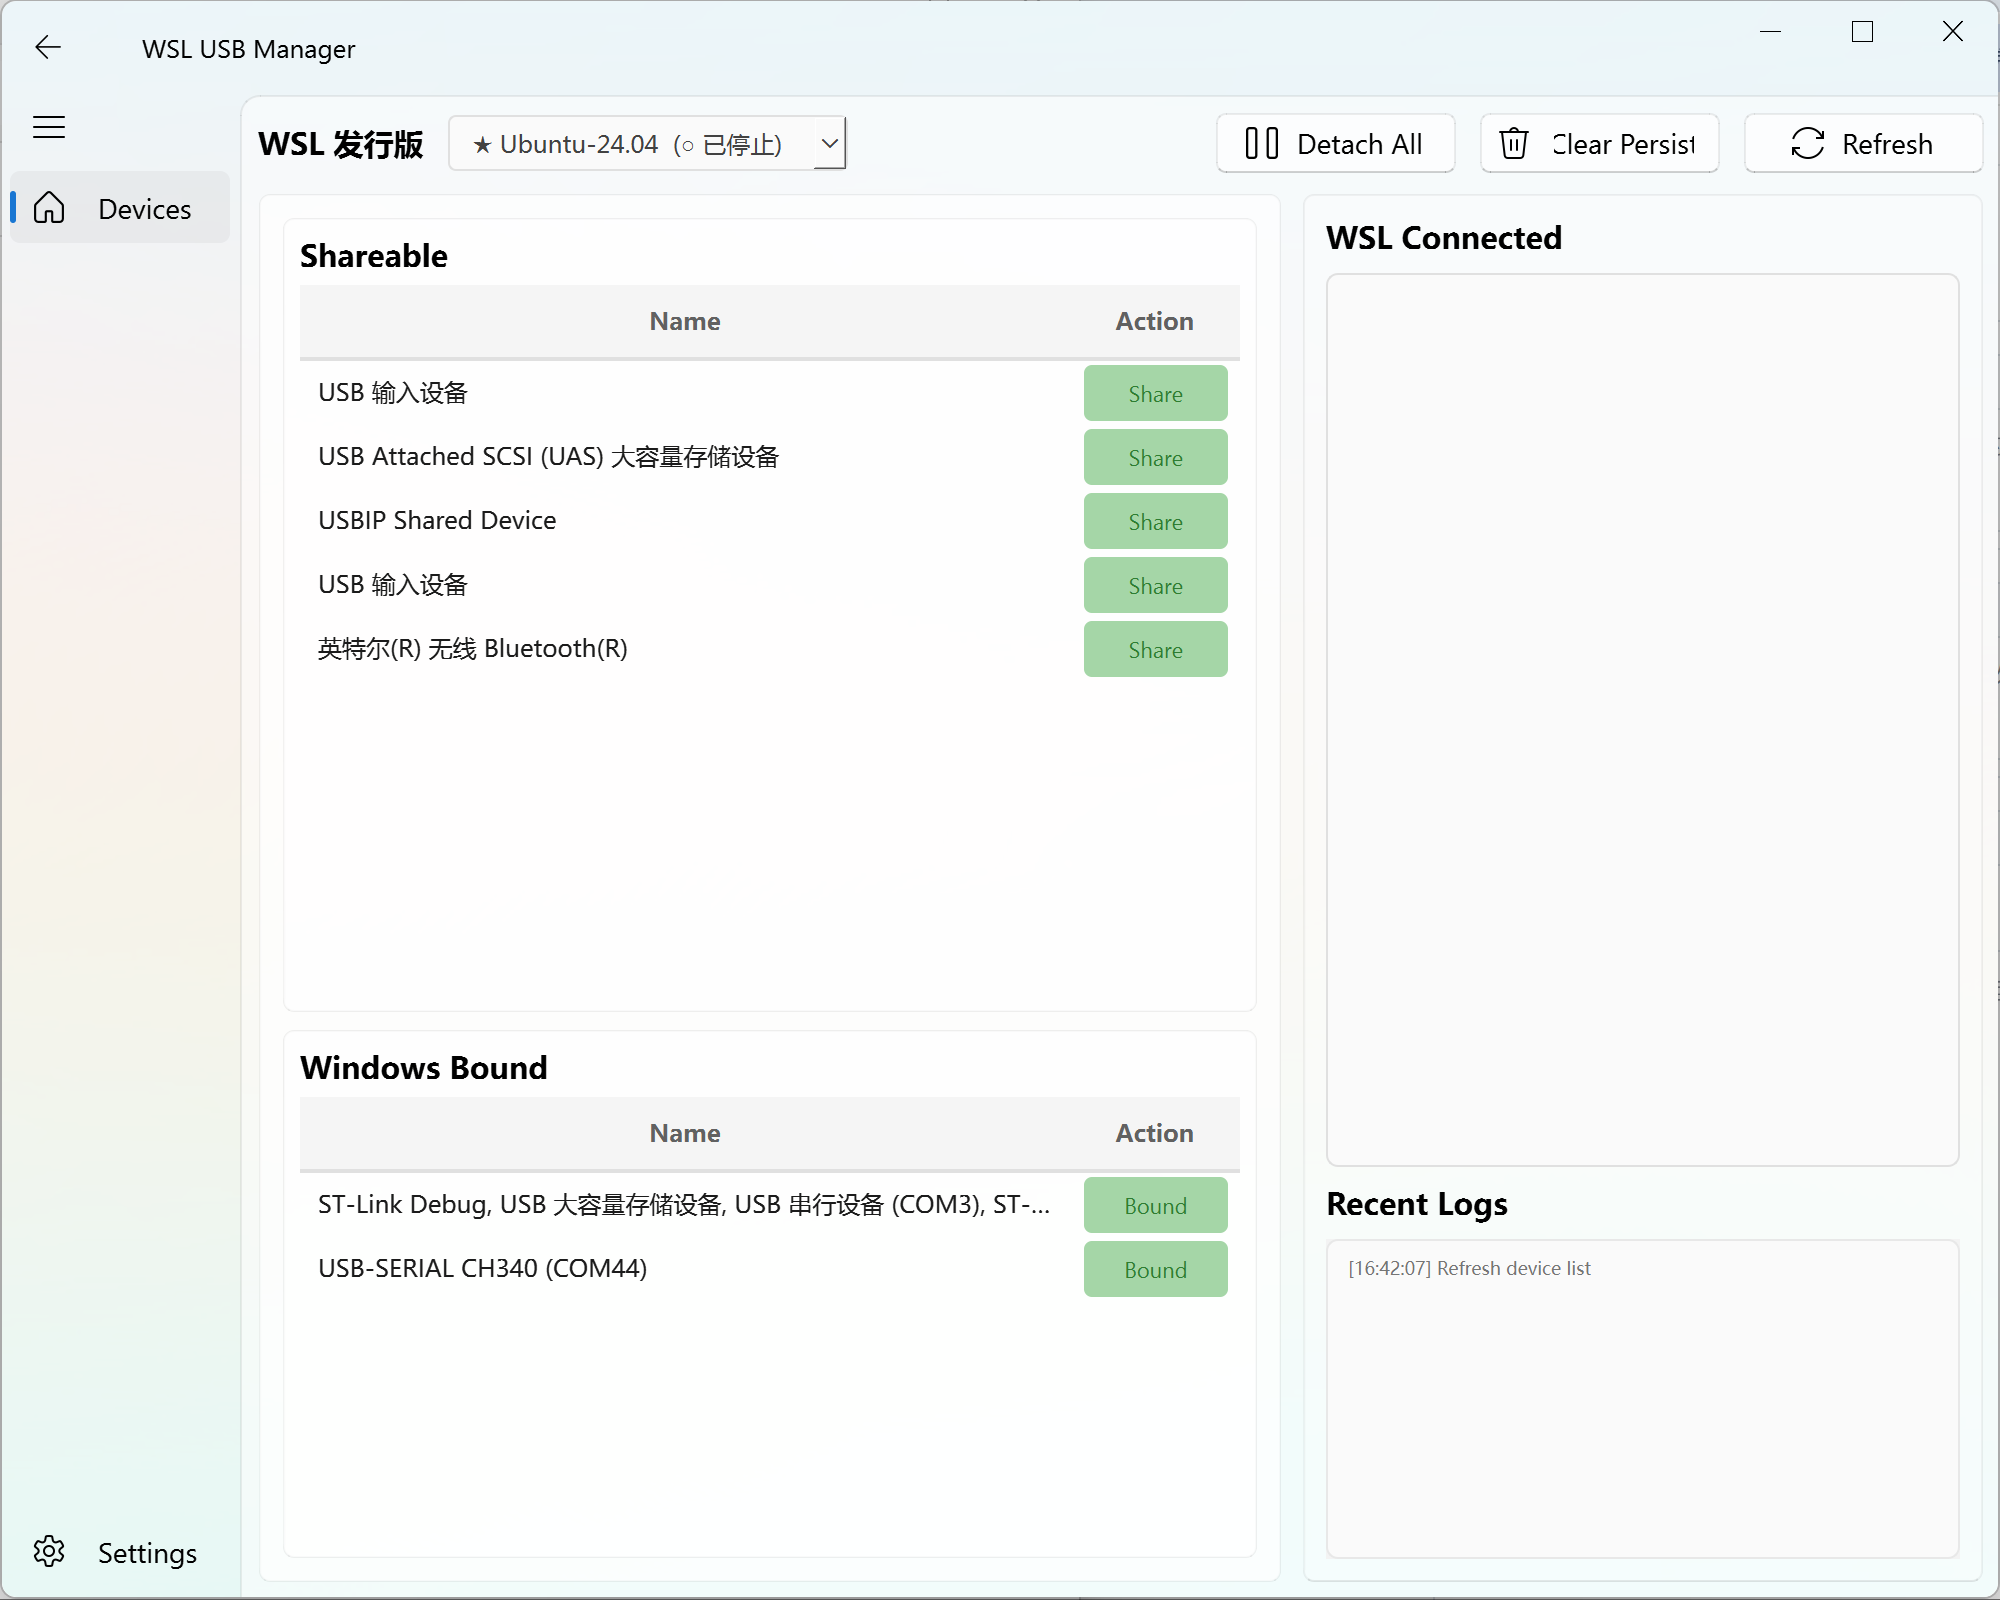
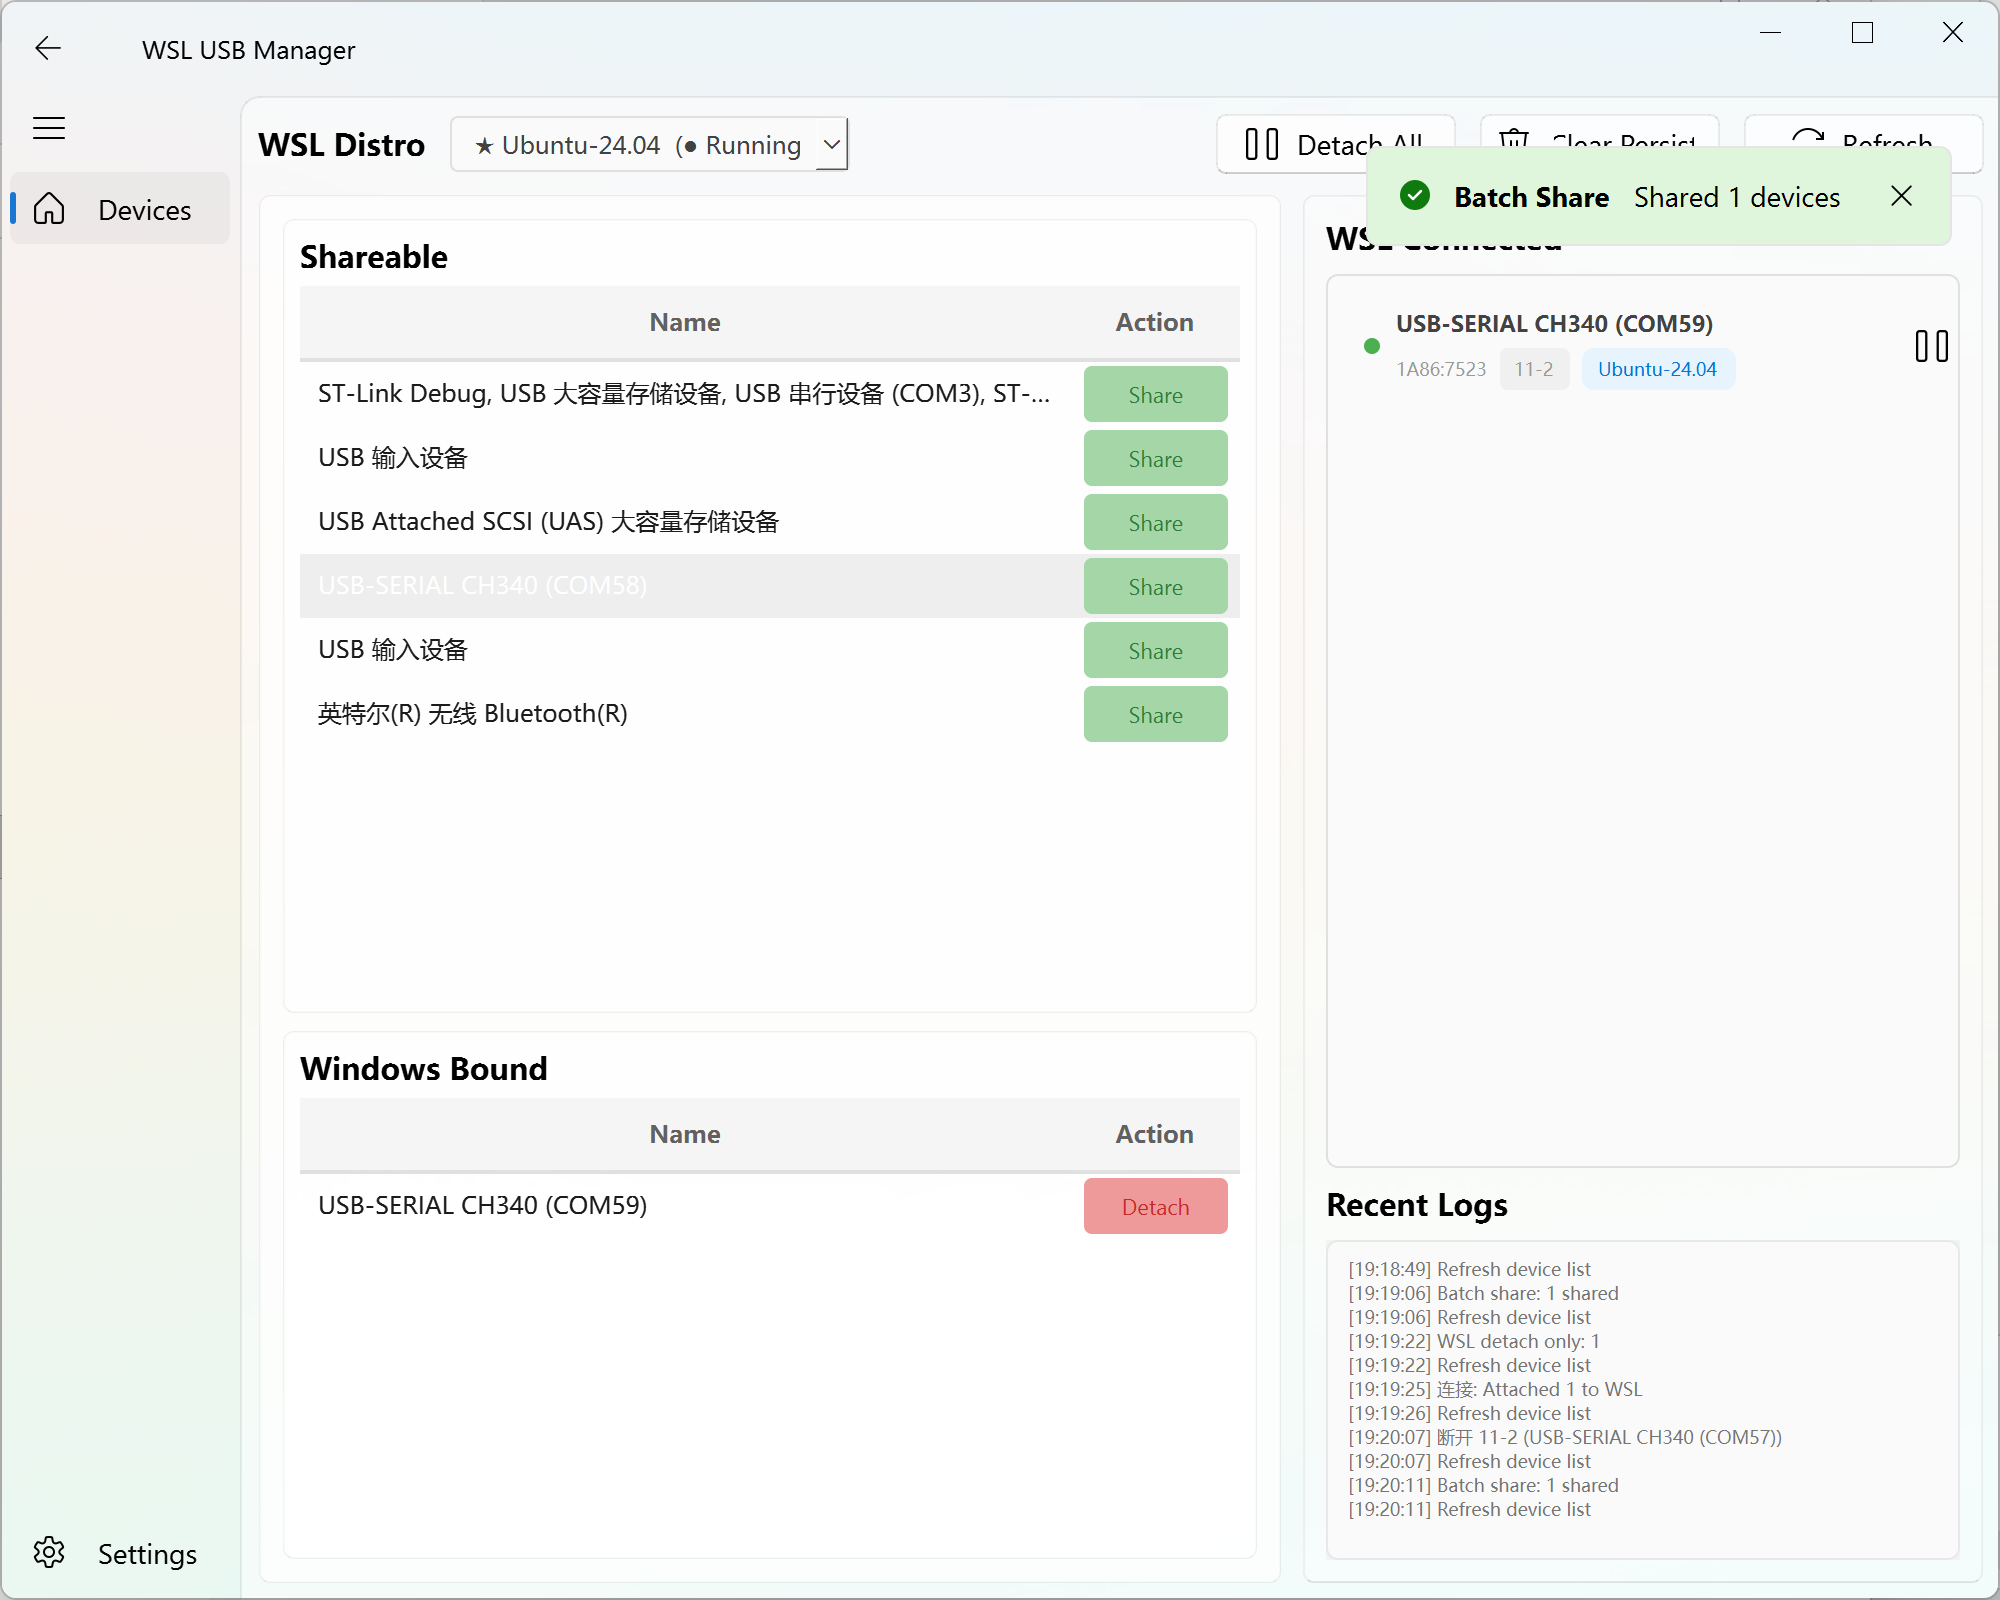
v1.0.2: fix distro display, auto-refresh timer, i18n fixes

diff --git a/windows/pages/home_page.py b/windows/pages/home_page.py
@@ -263,7 +263,10 @@ class HomePage(QWidget):
         ]
         if not shareable:
             InfoBar.info(
-                title=tr("info_share_all_title"), content=tr("info_no_shareable"), parent=self, duration=3000
+                title=tr("info_share_all_title"),
+                content=tr("info_no_shareable"),
+                parent=self,
+                duration=3000,
             )
             self._add_log("全部共享: 无设备可共享")
             return
@@ -328,12 +331,18 @@ class HomePage(QWidget):
         self.update_status()
         self._add_log(tr("log_refresh"))
 
+        # 每30秒自动刷新发行版状态
+        if not hasattr(self, "_distro_timer"):
+            self._distro_timer = QTimer(self)
+            self._distro_timer.timeout.connect(self._load_distros)
+            self._distro_timer.start(30000)
+
     def _load_distros(self):
         """加载 WSL 发行版到下拉框，每次刷新都更新状态"""
         if not hasattr(self, "_distro_combo"):
             return
-        # 记住当前选中
         current_data = self._distro_combo.currentData()
+        self._distro_combo.blockSignals(True)
         self._distro_combo.clear()
         distros = self.usbip.get_wsl_distributions()
         default_name = self.usbip.get_default_wsl_distro()
@@ -342,11 +351,19 @@ class HomePage(QWidget):
             marker = " \u2605 " if d["name"] == default_name else "    "
             label = f"{marker}{d['name']}  ({status})"
             self._distro_combo.addItem(label, d["name"])
-        # 恢复之前选中的发行版
         if current_data:
             idx = self._distro_combo.findData(current_data)
             if idx >= 0:
                 self._distro_combo.setCurrentIndex(idx)
+        self._distro_combo.blockSignals(False)
+
+    def _selected_distro(self) -> str:
+        """获取当前选中的 WSL 发行版名称"""
+        if hasattr(self, "_distro_combo"):
+            data = self._distro_combo.currentData()
+            if data:
+                return data
+        return ""
 
     def _populate_shareable(self):
         shareable = [
@@ -369,8 +386,8 @@ class HomePage(QWidget):
             item = QListWidgetItem()
             widget = self._create_wsl_item(device)
             widget.setFixedHeight(52)
-            # 直接指定 item 高度为 55（两行内容），高亮条覆盖全部
-            item.setSizeHint(QSize(0, 55))
+            # 直接指定 item 高度为 50（两行内容），高亮条覆盖全部
+            item.setSizeHint(QSize(0, 50))
             item.setData(Qt.ItemDataRole.UserRole, device)
             self.wsl_list.addItem(item)
             self.wsl_list.setItemWidget(item, widget)
@@ -509,7 +526,9 @@ class HomePage(QWidget):
         busid = item.data(Qt.ItemDataRole.UserRole) or ""
         name = item.text()
 
-        self._current_thread = CmdThread(self.usbip, "bind", busid=busid)
+        self._current_thread = CmdThread(
+            self.usbip, "bind", busid=busid, wsl_distro=self._selected_distro()
+        )
         self._current_thread.finished_signal.connect(
             lambda ok, msg, tag: self._on_bind_done(ok, msg, busid, name)
         )
@@ -569,11 +588,13 @@ class HomePage(QWidget):
     def _do_bind_batch(self, busids: list[str]):
         ok = fail = 0
         last_error = ""
+        distro = self._selected_distro() or self.usbip.get_default_wsl_distro()
         for bid in busids:
             s, msg = self.usbip.bind(bid, force=True)
             if s:
-                s2, msg2 = self.usbip.attach(bid, wsl_distro="")
+                s2, msg2 = self.usbip.attach(bid, wsl_distro=distro)
                 if s2:
+                    self.usbip.set_busid_distro(bid, distro)
                     ok += 1
                 else:
                     fail += 1
@@ -621,16 +642,25 @@ class HomePage(QWidget):
                 ok += 1
             else:
                 fail += 1
-        msg = tr("info_bind_done", count=ok) if fail == 0 else tr("info_bind_batch_partial", ok=ok, fail=fail)
-        InfoBar.success(title=tr("info_bind_done_title"), content=msg, parent=self, duration=3000)
-        self._add_log(f"仅绑定: {msg}")
+        msg = (
+            tr("info_bind_done", count=ok)
+            if fail == 0
+            else tr("info_bind_batch_partial", ok=ok, fail=fail)
+        )
+        InfoBar.success(
+            title=tr("info_bind_done_title"), content=msg, parent=self, duration=3000
+        )
+        self._add_log(tr("log_bind_only", count=ok))
         self.refresh_all_data()
 
     def _do_unbind_batch(self, busids: list[str]):
         valid = [b for b in busids if b]
         if not valid:
             InfoBar.error(
-                title=tr("info_unbind_fail_title"), content=tr("info_invalid_id"), parent=self, duration=3000
+                title=tr("info_unbind_fail_title"),
+                content=tr("info_invalid_id"),
+                parent=self,
+                duration=3000,
             )
             return
         for bid in valid:
@@ -638,7 +668,10 @@ class HomePage(QWidget):
             if not ok:
                 hint = translate_usbip_error(msg)
                 InfoBar.error(
-                    title=tr("info_unbind_fail_title"), content=hint, parent=self, duration=5000
+                    title=tr("info_unbind_fail_title"),
+                    content=hint,
+                    parent=self,
+                    duration=5000,
                 )
                 return
         InfoBar.success(
@@ -652,19 +685,23 @@ class HomePage(QWidget):
 
     def _do_attach_batch(self, busids: list[str]):
         ok = fail = 0
+        distro = self._selected_distro() or self.usbip.get_default_wsl_distro()
         for bid in busids:
-            s, _ = self.usbip.attach(bid, wsl_distro="")
+            s, _ = self.usbip.attach(bid, wsl_distro=distro)
             if s:
+                self.usbip.set_busid_distro(bid, distro)
                 ok += 1
             else:
                 fail += 1
         msg = (
             tr("info_attach_done", count=ok)
             if fail == 0
-            else f"成功 {ok} 个，失败 {fail} 个"
+            else tr("info_bind_batch_partial", ok=ok, fail=fail)
         )
-        InfoBar.success(title=tr("info_attach_done_title"), content=msg, parent=self, duration=3000)
-        self._add_log(f"连接: {msg}")
+        InfoBar.success(
+            title=tr("info_attach_done_title"), content=msg, parent=self, duration=3000
+        )
+        self._add_log(tr("log_attach", count=ok))
         self.refresh_all_data()
 
     def _do_wsl_detach(self, busids: list[str]):

diff --git a/utils/usbip_manager.py b/utils/usbip_manager.py
@@ -4,10 +4,16 @@ USB/IP 设备管理器
 """
 
 import json
+import pathlib
 import shutil
 import subprocess
-from dataclasses import dataclass, field
+from dataclasses import dataclass
 from typing import Optional
+
+# 发行版分配记录文件
+_DISTRO_MAP_FILE = (
+    pathlib.Path(__file__).resolve().parent.parent / "busid_distro_map.json"
+)
 
 
 @dataclass
@@ -115,6 +121,31 @@ class UsbipManager:
     def __init__(self):
         self._usbipd = _find_usbipd()
         self._wsl = _find_wsl()
+        self._load_distro_map()
+
+    def _load_distro_map(self):
+        """加载 busid → 发行版 映射"""
+        try:
+            self._distro_map = (
+                json.loads(_DISTRO_MAP_FILE.read_text(encoding="utf-8"))
+                if _DISTRO_MAP_FILE.exists()
+                else {}
+            )
+        except Exception:
+            self._distro_map = {}
+
+    def _save_distro_map(self):
+        """保存 busid → 发行版 映射"""
+        try:
+            _DISTRO_MAP_FILE.parent.mkdir(parents=True, exist_ok=True)
+            _DISTRO_MAP_FILE.write_text(json.dumps(self._distro_map), encoding="utf-8")
+        except Exception:
+            pass
+
+    def set_busid_distro(self, busid: str, distro: str):
+        """记录 busid 对应的发行版"""
+        self._distro_map[busid] = distro
+        self._save_distro_map()
 
     # ------------------------------------------------------------------
     # 设备列表获取
@@ -154,7 +185,9 @@ class UsbipManager:
                 device.bind_state = "bound"
             # 判断 WSL 连接
             if device.attached_client:
-                device.attached_wsl = self._resolve_wsl_distro(device.attached_client)
+                device.attached_wsl = self._resolve_wsl_distro(
+                    device.attached_client, busid=busid
+                )
 
             devices.append(device)
         return devices
@@ -363,10 +396,9 @@ class UsbipManager:
             pid = m_pid.group(1)
         return vid, pid
 
-    def _resolve_wsl_distro(self, client_ip: str) -> Optional[str]:
-        """通过 client IP 推测对应的 WSL 发行版"""
-        distros = self.get_wsl_distributions()
-        running = [d for d in distros if d["running"]]
-        if running:
-            return running[0]["name"]
-        return None
+    def _resolve_wsl_distro(self, client_ip: str, busid: str = "") -> Optional[str]:
+        """尝试匹配已连接设备的 WSL 发行版"""
+        # 优先使用之前记录的发行版
+        if busid and busid in self._distro_map:
+            return self._distro_map[busid]
+        return self.get_default_wsl_distro() or None

diff --git a/utils/i18n.py b/utils/i18n.py
@@ -135,10 +135,10 @@ TEXTS = {
     "info_unbind_fail": {"zh": "解绑失败", "en": "Unbind Failed"},
     "info_invalid_id": {"zh": "无效的设备ID", "en": "Invalid device ID"},
     "log_refresh": {"zh": "刷新设备列表", "en": "Refresh device list"},
-    "log_share": {"zh": "共享 {} ({}) -> WSL", "en": "Share {} ({}) -> WSL"},
+    "log_share": {"zh": "共享 {busid} ({name}) -> WSL", "en": "Share {busid} ({name}) -> WSL"},
     "log_share_fail": {"zh": "共享 {} ({}) -> 失败", "en": "Share {} ({}) -> failed"},
-    "log_detach": {"zh": "断开 {} ({})", "en": "Detach {} ({})"},
-    "log_persist_clear": {"zh": "清除持久记录: {} 条", "en": "Clear persist: {}"},
+    "log_detach": {"zh": "断开 {busid} ({name})", "en": "Detach {busid} ({name})"},
+    "log_persist_clear": {"zh": "清除持久记录: {count} 条", "en": "Clear persist: {count}"},
     "log_wsl_detach_only": {
         "zh": "WSL仅断开: {count} 个设备",
         "en": "WSL detach only: {count}",
@@ -147,11 +147,11 @@ TEXTS = {
         "zh": "WSL断开+解绑: {count} 个设备",
         "en": "WSL detach+unbind: {count}",
     },
-    "log_bind_batch": {"zh": "批量共享: {}", "en": "Batch share: {}"},
-    "log_detach_batch": {"zh": "批量断开: {} 个设备", "en": "Batch detach: {}"},
-    "log_bind_only": {"zh": "仅绑定: {}", "en": "Bind only: {}"},
-    "log_unbind": {"zh": "解绑: {count} 个设备", "en": "Unbind: {}"},
-    "log_attach": {"zh": "连接: {}", "en": "Attach: {}"},
+    "log_bind_batch": {"zh": "批量共享: {count}", "en": "Batch share: {}"},
+    "log_detach_batch": {"zh": "批量断开: {count} 个设备", "en": "Batch detach: {count}"},
+    "log_bind_only": {"zh": "仅绑定: {count}", "en": "Bind only: {count}"},
+    "log_unbind": {"zh": "解绑: {count} 个设备", "en": "Unbind: {count}"},
+    "log_attach": {"zh": "连接: {count}", "en": "Attach: {count}"},
     "tooltip_busid": {"zh": "BUSID: {}", "en": "BUSID: {}"},
     "tooltip_vidpid": {"zh": "VID:PID: {}:{}", "en": "VID:PID: {}:{}"},
     "tooltip_status": {"zh": "状态: {}", "en": "Status: {}"},

diff --git a/widgets/cmd_thread.py b/widgets/cmd_thread.py
@@ -15,6 +15,7 @@ class CmdThread(QThread):
         *,
         busid: str = "",
         busids: list[str] | None = None,
+        wsl_distro: str = "",
         parent=None,
     ):
         super().__init__(parent)
@@ -22,6 +23,7 @@ class CmdThread(QThread):
         self._action = action_tag
         self._busid = busid
         self._busids = busids or []
+        self._wsl_distro = wsl_distro
 
     def run(self):
         mgr = self._mgr
@@ -29,10 +31,13 @@ class CmdThread(QThread):
         if tag == "bind":
             ok, msg = mgr.bind(self._busid, force=True)
             if ok:
-                ok2, msg2 = mgr.attach(self._busid, wsl_distro="")
+                ok2, msg2 = mgr.attach(self._busid, wsl_distro=self._wsl_distro)
                 msg = msg2
                 if not ok2:
                     ok = False
+                else:
+                    distro = self._wsl_distro or mgr.get_default_wsl_distro()
+                    mgr.set_busid_distro(self._busid, distro)
             self.finished_signal.emit(ok, msg, tag)
         elif tag == "detach":
             ok, msg = mgr.detach(self._busid)
@@ -43,7 +48,7 @@ class CmdThread(QThread):
             for bid in self._busids:
                 s, _ = mgr.bind(bid, force=True)
                 if s:
-                    s2, _ = mgr.attach(bid, wsl_distro="")
+                    s2, _ = mgr.attach(bid, wsl_distro=self._wsl_distro)
                     if s2:
                         ok += 1
                     else:
@@ -78,7 +83,7 @@ class CmdThread(QThread):
         elif tag == "attach_batch":
             ok, fail = 0, 0
             for bid in self._busids:
-                s, _ = mgr.attach(bid, wsl_distro="")
+                s, _ = mgr.attach(bid, wsl_distro=self._wsl_distro)
                 if s:
                     ok += 1
                 else: